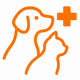
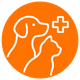
1

diff --git a/config/settings/base.py b/config/settings/base.py
@@ -113,7 +113,7 @@ LOCALE_PATHS = [BASE_DIR / 'locale']
 STATIC_URL = '/static/'
 STATICFILES_DIRS = [BASE_DIR / 'static']
 STATIC_ROOT = BASE_DIR / 'staticfiles'
-STATIC_ASSET_VERSION = config('STATIC_ASSET_VERSION', default='20260706f')
+STATIC_ASSET_VERSION = config('STATIC_ASSET_VERSION', default='20260706g')
 STORAGES = {
     'default': {
         'BACKEND': 'django.core.files.storage.FileSystemStorage',